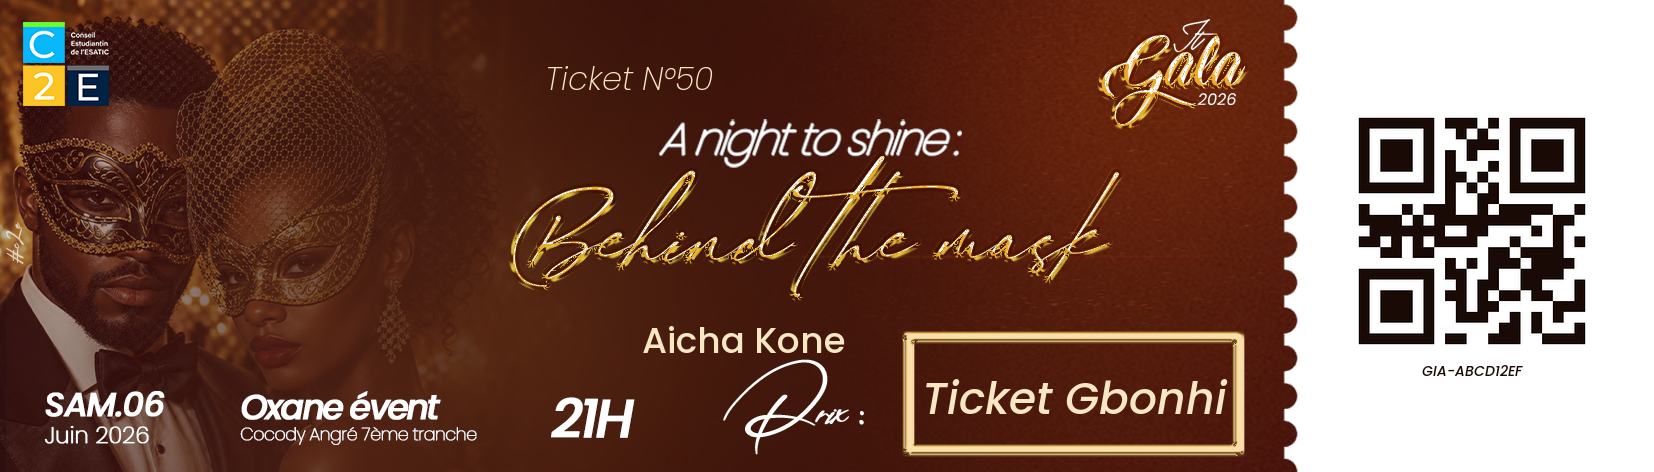
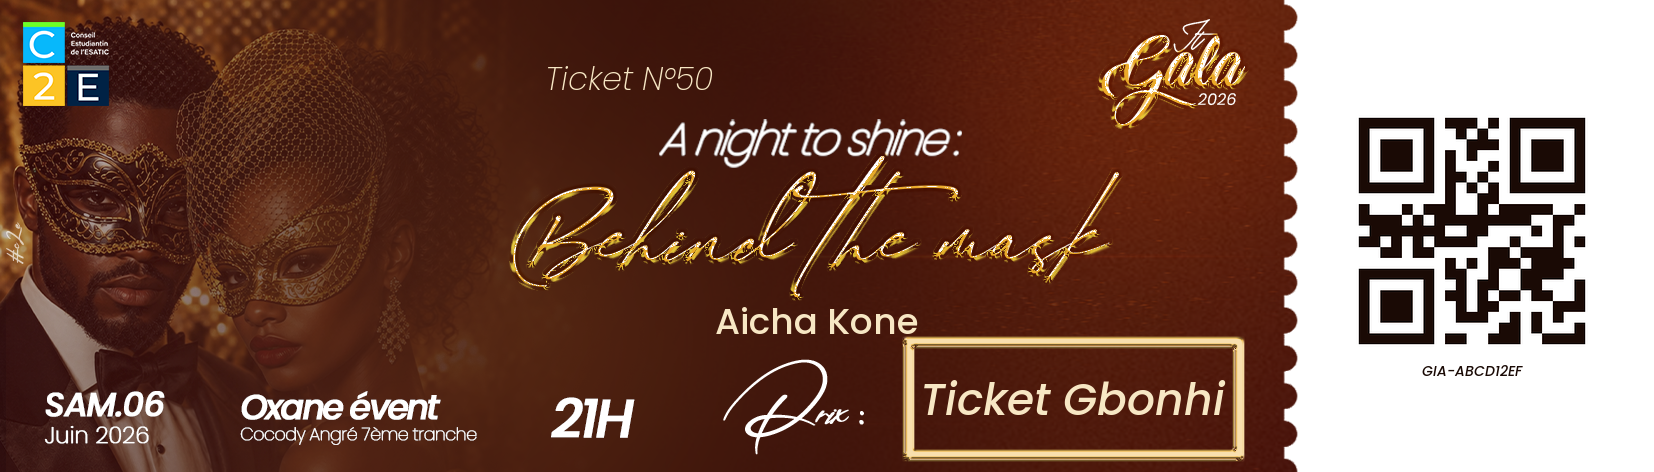
Centré

Changed region(s): [[0.37, 0.6525, 0.7709, 0.7712], [0.555, 0.8008, 0.74, 0.8898], [0.5242, 0.9195, 0.7709, 0.9788]]

diff --git a/frontend/src/components/TicketQR.tsx b/frontend/src/components/TicketQR.tsx
@@ -22,8 +22,8 @@ import type { Gala, Ticket } from "@/lib/types";
 
 // Positions calibrees sur la template (1654 x 472 px).
 const POS_NUMBER = { left: "33%", top: "12%" };
-const POS_NAME = { left: "45%", top: "67%" }; // centre, sous "Behind the mask"
-const POS_TYPE = { left: "65%", top: "89%" }; // centre du cadre dore
+const POS_NAME = { left: "49.4%", top: "68%" }; // centre exact sous "Behind the mask"
+const POS_TYPE = { left: "64.9%", top: "84.3%" }; // centre exact du cadre dore
 const POS_QR = { right: "5.5%", top: "49%", width: "15%" }; // centre sur l'espace blanc
 
 const DEBUG_OVERLAYS = false;

diff --git a/backend/app/services/ticket_image.py b/backend/app/services/ticket_image.py
@@ -30,9 +30,11 @@ _TEMPLATE_H = 472
 #    Coordonnee = coin haut-gauche du texte.
 _NUMBER_POS_PCT = (0.33, 0.12)
 # 2. Nom de la personne qui a achete le ticket, centre sous "Behind the mask"
-_NAME_POS_PCT = (0.45, 0.67)
+#    Centre X mesure de "Behind the mask" = 49.4% (au pixel pres)
+_NAME_POS_PCT = (0.494, 0.68)
 # 3. Libelle du type (Ticket Solo / Duo / Gbonhi) : centre du cadre dore
-_TYPE_POS_PCT = (0.65, 0.89)
+#    Centre geometrique du cadre dore detecte = (64.9%, 84.3%)
+_TYPE_POS_PCT = (0.649, 0.843)
 # 4. QR : centre de la zone blanche
 _QR_CENTER_PCT = (0.89, 0.49)
 _QR_SIZE_PCT = 0.15  # 15% of template width
